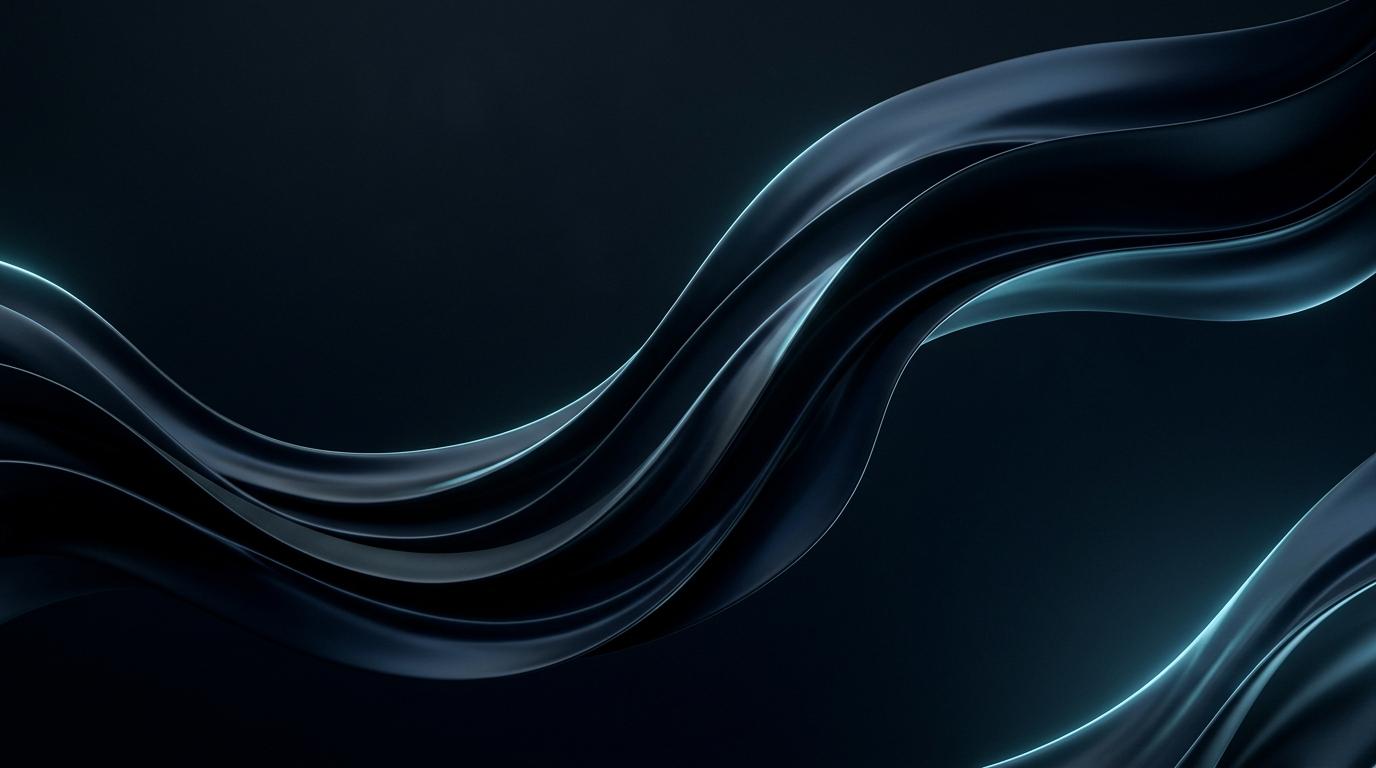
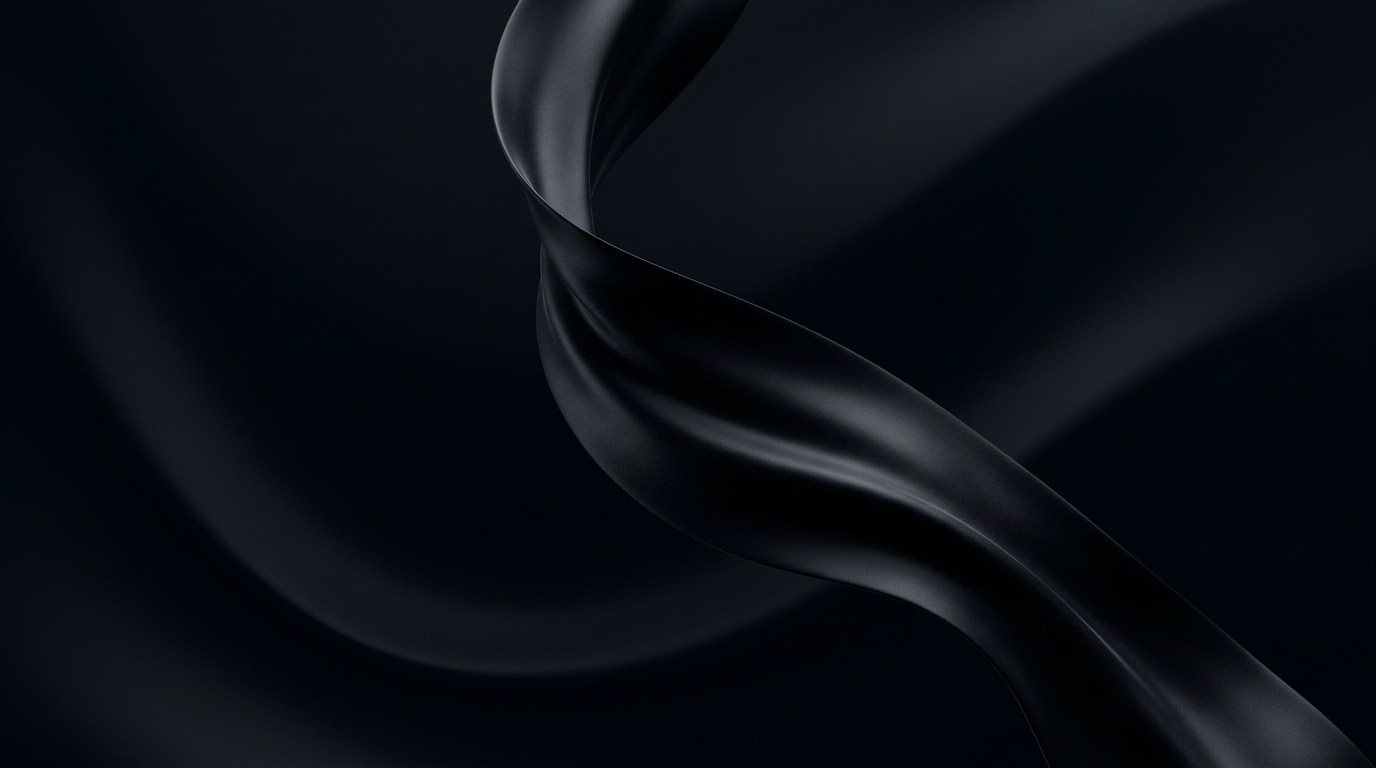
feat: add Header component and update hero assets and section styling

diff --git a/src/pages/Home/sections/Hero.tsx b/src/pages/Home/sections/Hero.tsx
@@ -1,10 +1,10 @@
 import { ChevronDown, Plus, HelpCircle, Trophy } from "lucide-react";
-import sculptureImg from "../../../assets/sculpture.jpg";
+import figure8Img from "../../../assets/sculpture-figure8.png";
 import heroBgImg from "../../../assets/hero-bg.jpg";
 
-// SVG Flags for pixel-perfect presentation
+// SVG Flags for crisp, authentic rendering
 const USAFlag = () => (
-  <svg viewBox="0 0 512 512" className="w-4 h-4 rounded-full inline-block shadow-sm">
+  <svg viewBox="0 0 512 512" className="w-4 h-4 rounded-full inline-block shadow-xs flex-shrink-0">
     <circle cx="256" cy="256" r="256" fill="#f0f0f0" />
     <g fill="#d80027">
       <path d="M0 213.3h512v42.7H0zm0 85.4h512v42.7H0zm0 85.3h512v42.7H0zM0 426.7h512V470H0zM0 42.7h512v42.6H0zm0 85.3h512v42.7H0z" />
@@ -29,7 +29,7 @@ const USAFlag = () => (
 );
 
 const UAEFlag = () => (
-  <svg viewBox="0 0 512 512" className="w-4 h-4 rounded-full inline-block shadow-sm">
+  <svg viewBox="0 0 512 512" className="w-4 h-4 rounded-full inline-block shadow-xs flex-shrink-0">
     <path fill="#496e2d" d="M0 85.3h512v113.8H0z" />
     <path fill="#f0f0f0" d="M0 199.1h512v113.8H0z" />
     <path fill="#000" d="M0 312.9h512v113.8H0z" />
@@ -38,7 +38,7 @@ const UAEFlag = () => (
 );
 
 const BrazilFlag = () => (
-  <svg viewBox="0 0 512 512" className="w-5 h-5 rounded-full inline-block shadow-sm">
+  <svg viewBox="0 0 512 512" className="w-4.5 h-4.5 rounded-full inline-block shadow-xs flex-shrink-0">
     <path fill="#6da544" d="M0 0h512v512H0z" />
     <path fill="#ffda44" d="M256 64 472 256 256 448 40 256z" />
     <circle cx="256" cy="256" r="112" fill="#0052b4" />
@@ -50,7 +50,7 @@ const BrazilFlag = () => (
 );
 
 const EUFlag = () => (
-  <svg viewBox="0 0 512 512" className="w-5 h-5 rounded-full inline-block shadow-sm">
+  <svg viewBox="0 0 512 512" className="w-5 h-5 rounded-full inline-block shadow-xs flex-shrink-0">
     <circle cx="256" cy="256" r="256" fill="#003399" />
     <g fill="#ffcc00">
       <circle cx="256" cy="76" r="14" />
@@ -71,36 +71,35 @@ const EUFlag = () => (
 
 export default function Hero() {
   return (
-    <section className="relative min-h-screen w-full bg-[#020817] text-white overflow-hidden flex flex-col justify-between select-none">
+    <section className="relative min-h-screen w-full bg-[#020817] text-white overflow-hidden flex flex-col justify-between selection:bg-[#00D2FF]/30">
       {/* Background 3D Wave & Glow Layers */}
       <div className="absolute inset-0 pointer-events-none overflow-hidden">
-        {/* Cinematic Backdrop Image */}
+        {/* Organic 3D dark ribbon wave backdrop */}
         <img
           src={heroBgImg}
           alt="Dark fluid background"
-          className="absolute inset-0 w-full h-full object-cover object-center opacity-45 mix-blend-screen scale-105"
+          className="absolute inset-0 w-full h-full object-cover object-center opacity-85"
         />
 
-        {/* Dynamic Glowing Radial Highlights */}
-        <div className="absolute top-[10%] right-[15%] w-[550px] h-[550px] bg-[#00D2FF]/10 rounded-full blur-[140px] pointer-events-none" />
-        <div className="absolute bottom-[5%] left-[5%] w-[450px] h-[450px] bg-[#00D2FF]/8 rounded-full blur-[160px] pointer-events-none" />
-        <div className="absolute top-1/2 left-1/3 -translate-x-1/2 -translate-y-1/2 w-[700px] h-[500px] bg-indigo-950/20 rounded-full blur-[180px] pointer-events-none" />
+        {/* Ambient Cyan glow reflections */}
+        <div className="absolute top-[18%] right-[22%] w-[550px] h-[550px] bg-[#00D2FF]/10 rounded-full blur-[150px]" />
+        <div className="absolute bottom-[10%] left-[8%] w-[450px] h-[450px] bg-[#00D2FF]/7 rounded-full blur-[160px]" />
 
-        {/* Ambient Vignette Overlay */}
-        <div className="absolute inset-0 bg-gradient-to-b from-[#020817]/60 via-transparent to-[#020817]/90" />
+        {/* Soft Vignette Overlay */}
+        <div className="absolute inset-0 bg-gradient-to-t from-[#020817] via-transparent to-[#020817]/30" />
       </div>
 
       {/* Left Docked Tab: Awards & Certifications */}
       <div className="hidden lg:flex fixed left-0 top-1/2 -translate-y-1/2 z-40">
         <button
           type="button"
-          aria-label="Awards & Certifications"
-          className="bg-white text-black py-4 px-2 rounded-r-xl shadow-2xl flex flex-col items-center gap-3 transition-transform duration-300 hover:translate-x-1 cursor-pointer border-t border-r border-b border-gray-200"
+          aria-label="Awards and Certifications"
+          className="bg-white text-black py-4 px-2 rounded-r-lg shadow-2xl flex flex-col items-center gap-3 transition-transform duration-300 hover:translate-x-1 cursor-pointer border-t border-r border-b border-gray-200"
         >
-          <span className="text-[12px] font-bold tracking-tight [writing-mode:vertical-rl] rotate-180 text-gray-900 py-1">
+          <span className="text-[11px] font-bold tracking-tight [writing-mode:vertical-rl] rotate-180 text-gray-900 py-1 select-none">
             Awards & Certifications
           </span>
-          <div className="w-4 h-[1px] bg-gray-200" />
+          <div className="w-3.5 h-[1px] bg-gray-200" />
           <div className="w-5 h-5 flex items-center justify-center text-black">
             <Trophy className="w-4 h-4 stroke-[2.2]" />
           </div>
@@ -108,28 +107,27 @@ export default function Hero() {
       </div>
 
       {/* Top Navigation Bar */}
-      <header className="relative z-30 w-full px-6 sm:px-10 lg:px-16 pt-7 pb-4 flex items-center justify-between">
-        {/* Left: Brand Identity & Subtitle */}
-        <div className="flex items-center gap-3.5">
-          {/* Half dark / half light round logo icon with dropdown indicator */}
+      <header className="relative z-30 w-full px-6 sm:px-10 lg:px-14 pt-7 pb-4 flex items-center justify-between">
+        {/* Left: Brand Identity */}
+        <div className="flex items-center gap-3">
           <button
             type="button"
-            className="group flex items-center gap-1.5 focus:outline-none cursor-pointer"
+            className="group flex items-center gap-1 focus:outline-none cursor-pointer"
           >
-            <div className="w-8 h-8 rounded-full border border-white/30 flex items-center justify-center relative overflow-hidden bg-[#020817] shadow-inner transition-transform group-hover:scale-105">
-              {/* Left half black / right half white */}
+            {/* Split circle logo */}
+            <div className="w-7 h-7 rounded-full border border-white/40 flex items-center justify-center relative overflow-hidden bg-[#020817] transition-transform group-hover:scale-105 shadow-sm">
               <div className="absolute left-0 top-0 bottom-0 w-1/2 bg-[#020817]" />
               <div className="absolute right-0 top-0 bottom-0 w-1/2 bg-white" />
             </div>
-            <ChevronDown className="w-3.5 h-3.5 text-white/70 group-hover:text-white transition-colors" />
+            <ChevronDown className="w-3.5 h-3.5 text-white/80 group-hover:text-white transition-colors ml-0.5" />
           </button>
 
           <div className="flex flex-col text-left">
-            <span className="text-white text-[15px] font-medium leading-tight">
+            <span className="text-white text-[14px] sm:text-[15px] font-medium leading-tight">
               <strong className="font-semibold text-white">Speedy Global</strong>
               , welcome!
             </span>
-            <span className="text-[#94A3B8] text-[12px] leading-tight mt-0.5 font-normal">
+            <span className="text-[#94A3B8] text-[11px] sm:text-[12px] leading-tight mt-0.5 font-normal">
               All your business needs in one platform.
             </span>
           </div>
@@ -142,16 +140,16 @@ export default function Hero() {
             aria-label="Navigation Menu"
             className="flex flex-col items-center justify-center gap-1.5 p-2 group cursor-pointer focus:outline-none"
           >
-            <span className="w-8 h-[2px] bg-white rounded-full transition-all group-hover:w-10 group-hover:bg-[#00D2FF]" />
-            <span className="w-8 h-[2px] bg-white rounded-full transition-all group-hover:w-10 group-hover:bg-[#00D2FF]" />
+            <span className="w-7 h-[2px] bg-white rounded-full transition-all group-hover:w-9 group-hover:bg-[#00D2FF]" />
+            <span className="w-7 h-[2px] bg-white rounded-full transition-all group-hover:w-9 group-hover:bg-[#00D2FF]" />
           </button>
         </div>
 
         {/* Right: "Get the app" CTA Button */}
-        <div className="flex items-center gap-4">
+        <div>
           <button
             type="button"
-            className="bg-white text-[#020817] text-[14px] font-semibold px-6 py-2.5 rounded-full hover:bg-slate-100 hover:shadow-[0_0_20px_rgba(255,255,255,0.4)] transition-all duration-200 active:scale-95 cursor-pointer shadow-md tracking-tight"
+            className="bg-white text-[#020817] text-[13px] sm:text-[14px] font-semibold px-5 sm:px-6 py-2 sm:py-2.5 rounded-full hover:bg-slate-100 hover:shadow-[0_0_25px_rgba(255,255,255,0.45)] transition-all duration-200 active:scale-95 cursor-pointer shadow-md tracking-tight"
           >
             Get the app
           </button>
@@ -159,10 +157,10 @@ export default function Hero() {
       </header>
 
       {/* Main Hero Body */}
-      <div className="relative z-20 w-full max-w-[1440px] mx-auto px-6 sm:px-10 lg:px-16 flex-1 flex flex-col lg:flex-row items-center justify-between py-8 lg:py-4">
-        {/* Left Column: Big Display Headline & Subtitle */}
-        <div className="w-full lg:w-1/2 flex flex-col justify-center text-left pt-6 lg:pt-0 z-10">
-          <h1 className="text-white text-5xl sm:text-6xl md:text-7xl lg:text-[82px] xl:text-[90px] font-bold tracking-[-0.03em] leading-[1.03] drop-shadow-sm">
+      <div className="relative z-20 w-full max-w-[1440px] mx-auto px-6 sm:px-10 lg:px-14 flex-1 flex flex-col lg:flex-row items-center justify-between py-6 lg:py-2">
+        {/* Left Headline & Subtitle */}
+        <div className="w-full lg:w-1/2 flex flex-col justify-center text-left pt-6 lg:pt-0 lg:pl-4">
+          <h1 className="text-white text-5xl sm:text-6xl md:text-7xl lg:text-[80px] xl:text-[90px] font-bold tracking-[-0.035em] leading-[1.02] drop-shadow-sm">
             Your Money.
             <br />
             <span className="text-white">Simplified.</span>
@@ -173,16 +171,13 @@ export default function Hero() {
           </p>
         </div>
 
-        {/* Right Column: Hero Visual Composition */}
-        <div className="w-full lg:w-1/2 flex items-center justify-center lg:justify-end mt-12 lg:mt-0 relative pb-8 lg:pb-0">
-          {/* Main Backdrop Rounded Card */}
-          <div className="relative w-[310px] sm:w-[370px] md:w-[410px] h-[480px] sm:h-[540px] md:h-[580px] bg-[#f8fafc] rounded-[34px] sm:rounded-[40px] p-7 sm:p-9 shadow-[0_30px_70px_-15px_rgba(0,0,0,0.7)] flex flex-col justify-between overflow-hidden border border-white/60">
-            {/* Ambient Card Glow Behind Sculpture */}
-            <div className="absolute inset-0 bg-gradient-to-b from-[#ffffff] via-[#f1f5f9] to-[#e2e8f0] pointer-events-none" />
-
-            {/* Top Headline inside Card */}
+        {/* Right Visual Composition */}
+        <div className="w-full lg:w-1/2 flex items-center justify-center lg:justify-end mt-12 lg:mt-0 relative pb-10 lg:pb-4">
+          {/* Main Backdrop Card */}
+          <div className="relative w-[310px] sm:w-[360px] md:w-[390px] h-[500px] sm:h-[550px] md:h-[580px] bg-white rounded-[36px] sm:rounded-[42px] p-8 sm:p-10 shadow-[0_30px_70px_-15px_rgba(0,0,0,0.65)] flex flex-col justify-between overflow-hidden border border-gray-100">
+            {/* Top Typography Inside Card */}
             <div className="relative z-10">
-              <h2 className="text-[#0f172a] text-[26px] sm:text-[32px] md:text-[36px] font-bold leading-[1.12] tracking-[-0.02em]">
+              <h2 className="text-[#0f172a] text-[28px] sm:text-[32px] md:text-[36px] font-bold leading-[1.12] tracking-[-0.025em]">
                 Your Money.
                 <br />
                 Any Currency
@@ -191,24 +186,22 @@ export default function Hero() {
               </h2>
             </div>
 
-            {/* Central 3D Sculpture Asset */}
-            <div className="relative z-10 w-full flex items-center justify-center my-auto">
+            {/* Central 3D Figure-8 Ribbed Sculpture */}
+            <div className="relative z-10 w-full flex items-center justify-center my-auto pt-2">
               <img
-                src={sculptureImg}
-                alt="Ribbed coiled twist sculpture"
-                className="w-[230px] sm:w-[270px] md:w-[310px] h-auto object-contain mix-blend-multiply drop-shadow-[0_20px_25px_rgba(0,0,0,0.25)] transition-transform duration-700 hover:scale-105"
+                src={figure8Img}
+                alt="Ribbed 3D figure-eight sculpture"
+                className="w-[200px] sm:w-[240px] md:w-[265px] h-auto object-contain drop-shadow-[0_15px_20px_rgba(0,0,0,0.18)] transition-transform duration-700 hover:scale-105"
               />
             </div>
           </div>
 
-          {/* Floating Widget 1: "Deposit Received!" Pill (Top Right) */}
-          <div className="absolute top-10 sm:top-14 -right-2 sm:-right-6 md:-right-8 z-30 bg-white/95 backdrop-blur-md rounded-full py-2 sm:py-2.5 px-3.5 sm:px-4 shadow-[0_12px_32px_rgba(0,0,0,0.18)] border border-gray-100 flex items-center gap-3 transition-transform duration-300 hover:-translate-y-1">
-            {/* European Flag */}
+          {/* Floating Widget 1: "Deposit Received!" Pill (Mid Right) */}
+          <div className="absolute top-[160px] sm:top-[175px] -right-3 sm:-right-8 md:-right-10 z-40 bg-white/95 backdrop-blur-md rounded-full py-2 sm:py-2.5 px-3.5 sm:px-4 shadow-[0_15px_35px_rgba(0,0,0,0.2)] border border-gray-100/90 flex items-center gap-3 transition-transform duration-300 hover:-translate-y-1">
             <div className="flex-shrink-0 flex items-center justify-center">
               <EUFlag />
             </div>
 
-            {/* Label and Amount */}
             <div className="flex flex-col text-left pr-1">
               <span className="text-[12px] sm:text-[13px] font-bold text-gray-900 leading-tight">
                 Deposit Received!
@@ -218,38 +211,33 @@ export default function Hero() {
               </span>
             </div>
 
-            {/* Circular (+) Icon */}
-            <div className="w-6 h-6 sm:w-7 sm:h-7 rounded-full border border-gray-300 flex items-center justify-center text-gray-800 hover:border-gray-500 transition-colors">
-              <Plus className="w-3.5 h-3.5 sm:w-4 sm:h-4 stroke-[2.5]" />
+            <div className="w-6 h-6 sm:w-7 sm:h-7 rounded-full border border-gray-300 flex items-center justify-center text-gray-800 hover:border-gray-500 transition-colors cursor-pointer">
+              <Plus className="w-3.5 h-3.5 sm:w-4 sm:h-4 stroke-[2.2]" />
             </div>
           </div>
 
-          {/* Floating Widget 2: "Balance & Transactions" Card (Mid Left) */}
-          <div className="absolute top-[200px] sm:top-[230px] -left-4 sm:-left-16 md:-left-24 lg:-left-28 z-30 w-[270px] sm:w-[320px] md:w-[335px] bg-white rounded-[22px] sm:rounded-[26px] p-4 sm:p-5 shadow-[0_25px_60px_rgba(0,0,0,0.28)] border border-gray-100 transition-transform duration-300 hover:-translate-y-1">
-            {/* Top Bar: Sparkline Curve + Balance */}
+          {/* Floating Widget 2: "Balance & Transactions" Card (Overlapping Left) */}
+          <div className="absolute top-[190px] sm:top-[220px] -left-4 sm:-left-16 md:-left-24 lg:-left-28 z-30 w-[270px] sm:w-[320px] md:w-[335px] bg-white rounded-[24px] sm:rounded-[28px] p-4.5 sm:p-5 shadow-[0_25px_60px_rgba(0,0,0,0.25)] border border-gray-100 transition-transform duration-300 hover:-translate-y-1">
+            {/* Top Row: Mini Sparkline Graph + Balance */}
             <div className="flex items-center justify-between mb-4">
-              {/* Mini Curve Box */}
-              <div className="w-14 h-12 sm:w-16 sm:h-14 bg-[#EEF4FF] rounded-2xl p-1.5 flex flex-col justify-between relative overflow-hidden">
-                <div className="self-end bg-[#E0F2FE] text-[#0284c7] text-[9px] sm:text-[10px] font-bold px-1.5 py-0.5 rounded-full flex items-center gap-0.5">
-                  <span>↑</span> 16.9%
-                </div>
-                {/* Smooth Mini Wave SVG */}
+              {/* Mini Sparkline Pill Container */}
+              <div className="w-16 h-14 bg-[#EEF2FF] rounded-2xl p-1.5 flex flex-col justify-between relative overflow-hidden">
                 <svg
-                  viewBox="0 0 100 40"
-                  className="w-full h-6 text-[#00D2FF]"
+                  viewBox="0 0 100 45"
+                  className="w-full h-7 mt-1 text-[#3b82f6]"
                   fill="none"
                   xmlns="http://www.w3.org/2000/svg"
                 >
                   <path
-                    d="M0 32 C 20 32, 25 12, 45 20 C 65 28, 70 8, 100 10"
+                    d="M0 35 C 20 35, 25 15, 45 22 C 65 30, 75 10, 100 12"
                     stroke="#3b82f6"
-                    strokeWidth="3"
+                    strokeWidth="3.5"
                     strokeLinecap="round"
                   />
                   <path
-                    d="M0 32 C 20 32, 25 12, 45 20 C 65 28, 70 8, 100 10 L 100 40 L 0 40 Z"
+                    d="M0 35 C 20 35, 25 15, 45 22 C 65 30, 75 10, 100 12 L 100 45 L 0 45 Z"
                     fill="url(#sparkline-grad)"
-                    opacity="0.35"
+                    opacity="0.3"
                   />
                   <defs>
                     <linearGradient
@@ -264,6 +252,11 @@ export default function Hero() {
                     </linearGradient>
                   </defs>
                 </svg>
+
+                {/* Badge positioned bottom-right */}
+                <div className="self-end bg-[#E0F2FE] text-[#0284c7] text-[8px] sm:text-[9px] font-bold px-1.5 py-0.5 rounded-full flex items-center gap-0.5 shadow-2xs">
+                  <span>↑</span> 16.9%
+                </div>
               </div>
 
               {/* Balance Amount */}
@@ -309,15 +302,15 @@ export default function Hero() {
               </div>
             </div>
 
-            {/* Bottom 3 Dots indicator */}
-            <div className="flex items-center justify-center gap-1 mt-2.5">
-              <span className="w-1.5 h-1.5 rounded-full bg-gray-300" />
-              <span className="w-1.5 h-1.5 rounded-full bg-gray-300" />
-              <span className="w-1.5 h-1.5 rounded-full bg-gray-300" />
+            {/* Bottom 3 Dots Indicator */}
+            <div className="flex items-center justify-center gap-1.5 mt-3">
+              <span className="w-3.5 h-1 rounded-full bg-[#00D2FF]" />
+              <span className="w-1 h-1 rounded-full bg-gray-300" />
+              <span className="w-1 h-1 rounded-full bg-gray-300" />
             </div>
           </div>
 
-          {/* Floating Widget 3: "Currency Converter" Widget (Bottom Right) */}
+          {/* Floating Widget 3: Currency Converter (Bottom Right) */}
           <div className="absolute bottom-6 sm:bottom-10 -right-2 sm:-right-8 md:-right-10 z-30 w-[145px] sm:w-[155px] flex flex-col gap-1 transition-transform duration-300 hover:-translate-y-1">
             {/* Top Card: Amount */}
             <div className="bg-white rounded-2xl p-3 shadow-[0_10px_25px_rgba(0,0,0,0.15)] border border-gray-100 flex items-center justify-between">
@@ -332,14 +325,14 @@ export default function Hero() {
               <USAFlag />
             </div>
 
-            {/* Switch Arrow Connector Pill */}
+            {/* Switch Arrow Connector */}
             <div className="relative -my-2.5 z-40 self-center">
               <div className="w-6 h-6 bg-white rounded-full shadow-md border border-gray-200 flex items-center justify-center text-gray-700">
                 <ChevronDown className="w-3.5 h-3.5 stroke-[2.5]" />
               </div>
             </div>
 
-            {/* Bottom Card: To Result */}
+            {/* Bottom Card: To (Dark Theme) */}
             <div className="bg-[#182234] rounded-2xl p-3 shadow-[0_15px_30px_rgba(0,0,0,0.35)] border border-slate-700/50 flex flex-col text-left">
               <div className="flex items-center justify-between">
                 <div className="flex flex-col">
@@ -362,8 +355,8 @@ export default function Hero() {
         </div>
       </div>
 
-      {/* Bottom Status & Navigation Bar */}
-      <footer className="relative z-30 w-full px-6 sm:px-10 lg:px-16 py-6 flex items-center justify-between">
+      {/* Bottom Bar: Scroll Indicator & Help Link */}
+      <footer className="relative z-30 w-full px-6 sm:px-10 lg:px-14 py-6 flex items-center justify-between">
         {/* Scroll Indicator */}
         <div className="flex items-center gap-2.5 text-white/70 hover:text-white transition-colors cursor-pointer group">
           <div className="w-4 h-6 rounded-full border-[1.5px] border-white/60 group-hover:border-[#00D2FF] flex items-start justify-center pt-1 transition-colors">

diff --git a/src/layout/Header.tsx b/src/layout/Header.tsx
@@ -1,0 +1,7 @@
+import React from 'react'
+
+export default function Header() {
+    return (
+        <div>Header</div>
+    )
+}
